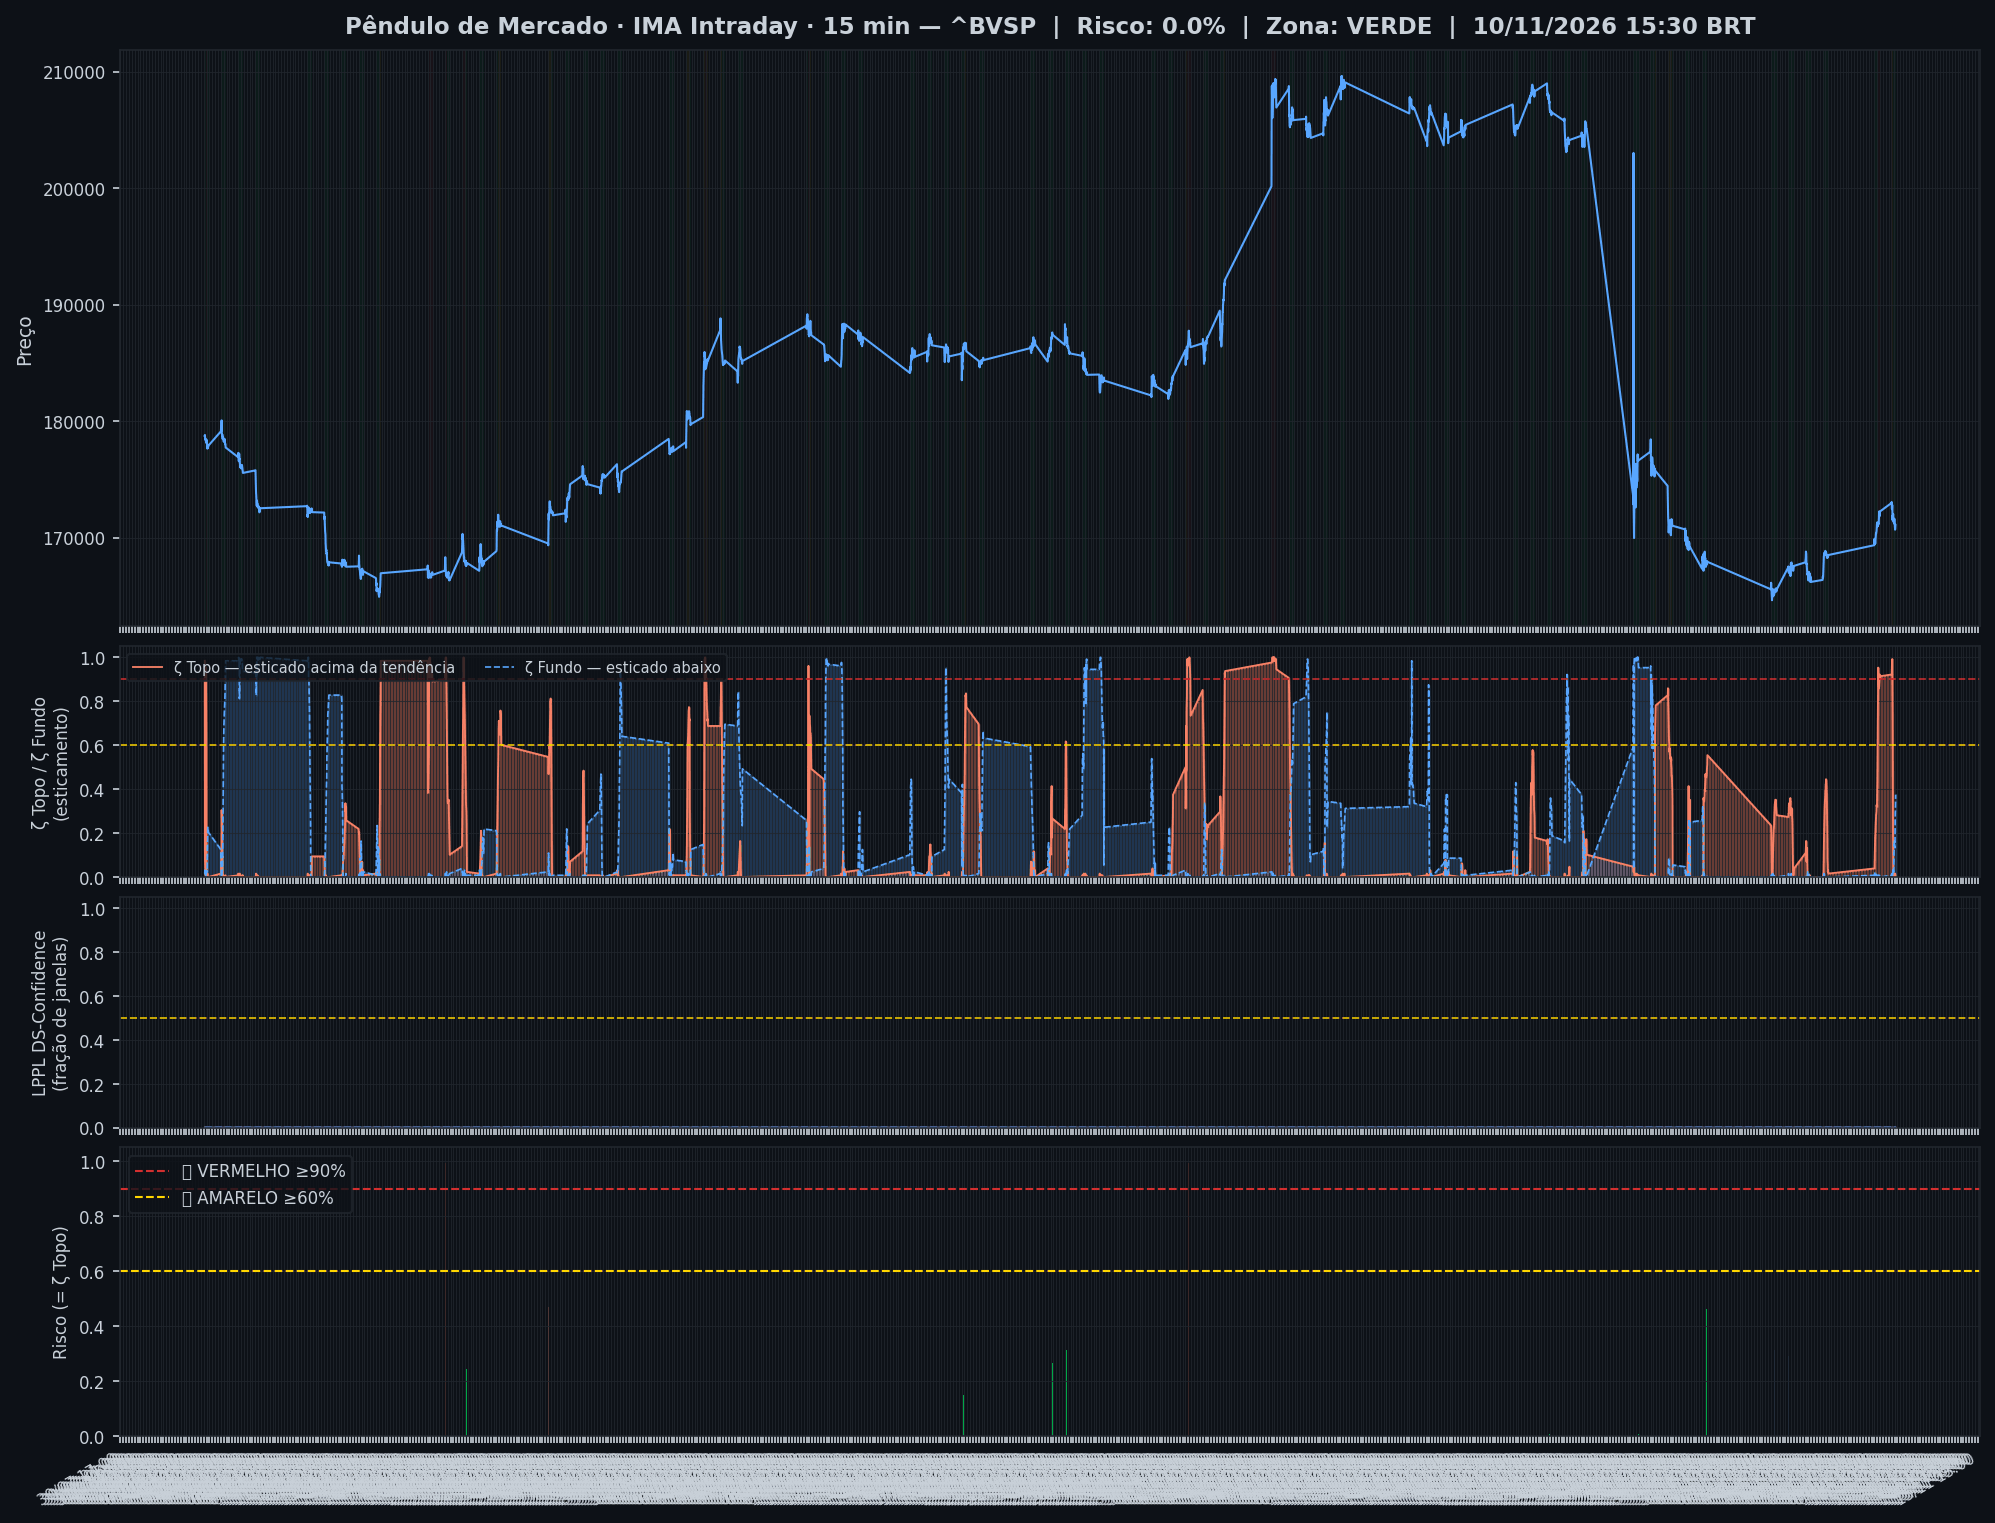
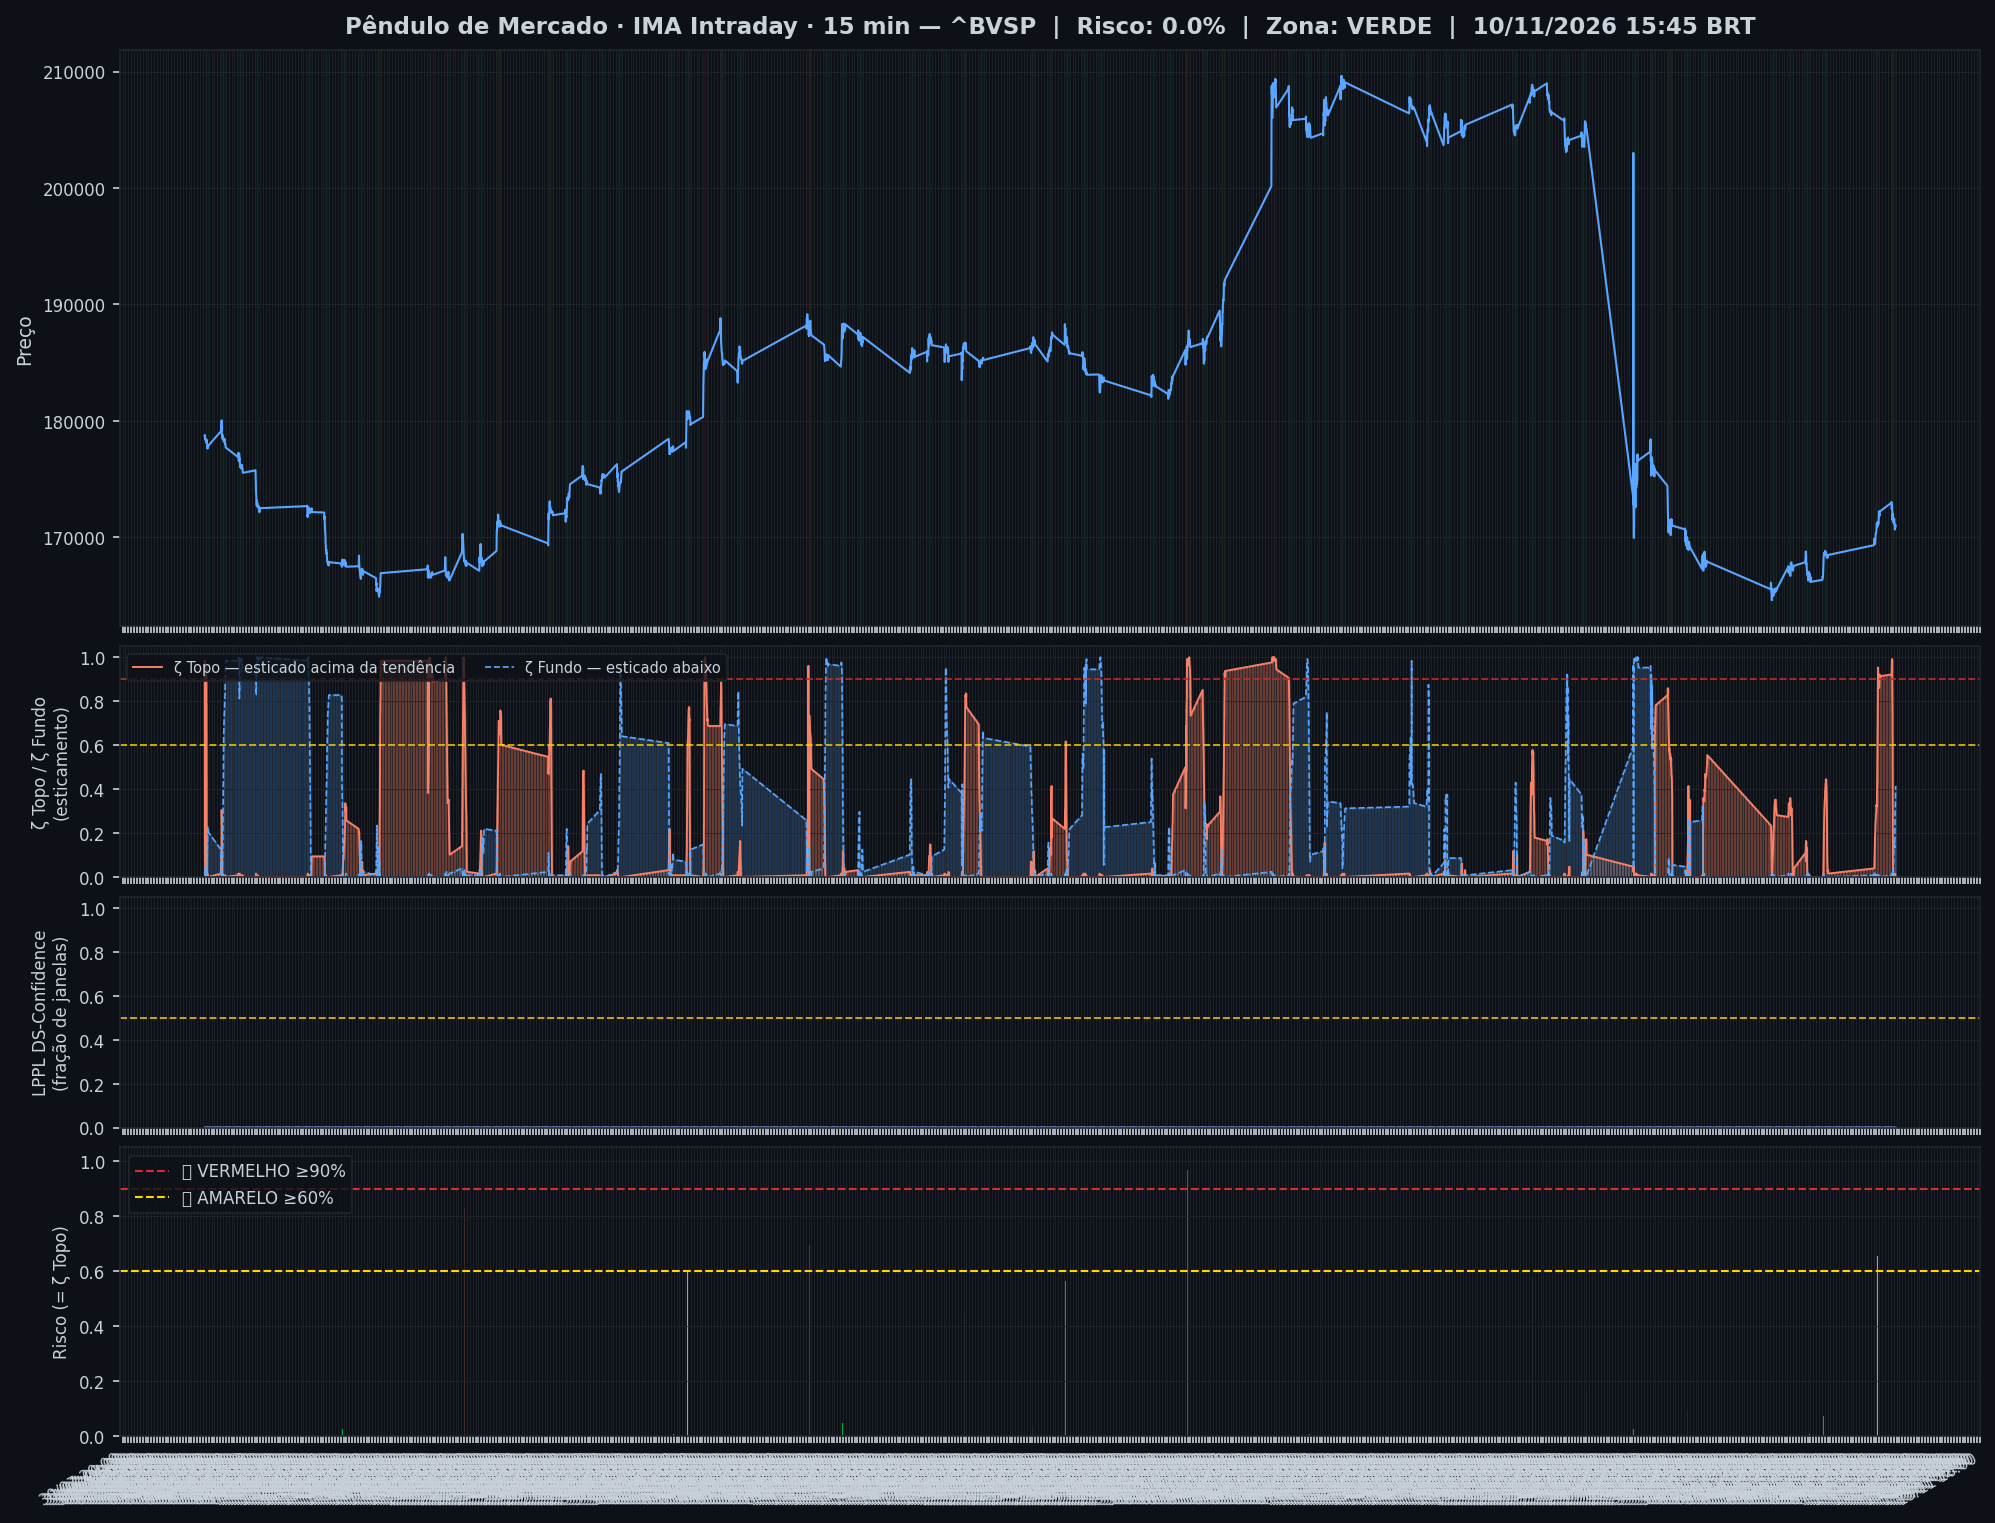
🤖 Auto: Sinal 10/11/2026 16:01

Changed region(s): [[0.0932, 0.432, 0.9634, 0.5863], [0.0311, 0.9258, 0.9945, 0.9875]]

diff --git a/content/intraday/2026-11-10.md b/content/intraday/2026-11-10.md
@@ -1,10 +1,10 @@
 ---
-title: "🟢 Intraday 10/11/2026 15:30 BRT — VERDE"
+title: "🟢 Intraday 10/11/2026 15:45 BRT — VERDE"
 date: 2026-11-10
 tags: [intraday]
 ---
 
-> [!success] Onde o mercado está agora (10/11 15:30, candles de 15 min): **🟢 Calmo**
+> [!success] Onde o mercado está agora (10/11 15:45, candles de 15 min): **🟢 Calmo**
 > `Pânico ◀──────●──────────────▶ Euforia`
 >
 > O Ibovespa está dentro da sua faixa normal, sem excesso para cima nem para baixo.
@@ -20,7 +20,7 @@ tags: [intraday]
 > | 📍 **Sinais** | hoje: nenhum sinal | [abrir](sinais-topo-fundo/) |
 > | 🧪 **Placar ao vivo** | 1 operação(ões), 0 com lucro, soma -0,8% | [abrir](operacoes/) |
 
-> [!success] IMA Intraday · 15 min (10/11 15:30): 🟢 **VERDE** — Risco 0% · ＝ +0 p.p. vs leitura anterior
+> [!success] IMA Intraday · 15 min (10/11 15:45): 🟢 **VERDE** — Risco 0% · ＝ +0 p.p. vs leitura anterior
 > `░░░░░░░░░░░░░░░░░░░░`
 > Preço na faixa normal em torno da tendência.
 
@@ -32,13 +32,13 @@ tags: [intraday]
 >
 > *Leitura educacional baseada em 26 anos de dados, não recomendação. [Como usar](../metodologia/crise#3-como-usar-na-prática).*
 
-| Indicador — IMA Intraday · 15 min (10/11 15:30) | Valor |
+| Indicador — IMA Intraday · 15 min (10/11 15:45) | Valor |
 |---|---|
 | 🔴 ζ Topo — preço esticado acima da tendência | **0%** |
-| 🔵 ζ Fundo — preço esticado abaixo da tendência | 38% |
+| 🔵 ζ Fundo — preço esticado abaixo da tendência | 41% |
 | 🫧 LPPL bolha — alta super-exponencial (risco de crash) | 0% |
 | 🫧 LPPL antibolha — queda super-exponencial (risco de repique) | 0% |
-| 📊 Ibovespa | 171.086 pts |
+| 📊 Ibovespa | 170.960 pts |
 
 ![Gráfico do sinal](../graficos/sinal_intraday.png)
 
@@ -46,6 +46,7 @@ tags: [intraday]
 
 | Data | Zona | Evento | Risco | ζ Topo | ζ Fundo | LPPL |
 |---|---|---|---|---|---|---|
+| 2026-11-10 15:45 | 🟢 VERDE |  | **0%** | 0% | 41% | 0% |
 | 2026-11-10 15:30 | 🟢 VERDE |  | **0%** | 0% | 38% | 0% |
 | 2026-11-10 15:15 | 🟢 VERDE |  | **0%** | 0% | 31% | 0% |
 | 2026-11-10 15:00 | 🟢 VERDE |  | **1%** | 1% | 29% | 0% |
@@ -75,7 +76,6 @@ tags: [intraday]
 | 2026-11-09 17:15 | 🔴 VERMELHO |  | 🔴 **92%** | 🔴 **92%** | 0% | 0% |
 | 2026-11-09 17:00 | 🔴 VERMELHO |  | 🟡 **89%** | 🟡 **89%** | 1% | 0% |
 | 2026-11-09 16:45 | 🔴 VERMELHO |  | 🟡 **88%** | 🟡 **88%** | 1% | 0% |
-| 2026-11-09 16:30 | 🔴 VERMELHO |  | 🟡 **87%** | 🟡 **87%** | 0% | 0% |
 
 <small>Destaques: 🟡 ≥ 60% · 🔴 ≥ 90% (Risco e ζ Topo) · 🔵 ≥ 60% · 🔪 ≥ 90% (ζ Fundo) · 🫧 ≥ 30% · 🫧🔴 ≥ 50% (LPPL)</small>
 
@@ -83,42 +83,42 @@ tags: [intraday]
 
 **4% dos ativos em tensão** (1🔴 2🟡) · **0 com ζ Fundo alto** — quanto mais ativos disparam juntos, mais confiável o sinal.
 
-> [!danger] Em destaque no multi-ativo
-> 🔴 **EMBRAER** ζ Topo 94%
+> [!warning] Em destaque no multi-ativo
+> 🟡 **EMBRAER** ζ Topo 90%
 
 | Zona | Ativo | Setor | ζ Topo | ζ Fundo |
 |---|---|---|---|---|
-| 🔴 | **EMBRAER** | Outros | 🔴 **93.8%** | 1.6% |
-| 🟡 | **AMBEV S/A** | Consumo | 54.7% | 5.5% |
-| 🟢 | **SABESP** | Saneamento | 0.0% | 51.6% |
-| 🟢 | **BRADESCO** | Financeiro | 0.0% | 51.6% |
-| 🟡 | **WEG** | Industrial | 50.0% | 0.0% |
-| 🟢 | **ITAUUNIBANCO** | Financeiro | 0.0% | 35.9% |
-| 🟢 | **ITAUSA** | Financeiro | 0.0% | 31.2% |
-| 🟢 | **ENEVA** | Energia | 0.0% | 28.1% |
-| 🟢 | **USD/BRL** | Câmbio | 28.1% | 8.6% |
-| 🟢 | **ULTRAPAR** | Outros | 0.0% | 25.8% |
+| 🔴 | **EMBRAER** | Outros | 🟡 **89.8%** | 0.8% |
+| 🟢 | **BRADESCO** | Financeiro | 0.0% | 54.7% |
+| 🟢 | **SABESP** | Saneamento | 0.0% | 53.1% |
+| 🟡 | **AMBEV S/A** | Consumo | 49.2% | 12.5% |
+| 🟡 | **WEG** | Industrial | 45.3% | 0.0% |
+| 🟢 | **ITAUUNIBANCO** | Financeiro | 0.0% | 34.4% |
+| 🟢 | **ITAUSA** | Financeiro | 0.0% | 32.0% |
 | 🟢 | **EQUATORIAL** | Energia | 0.0% | 23.4% |
-| 🟢 | **AXIA ENERGIA** | Energia | 0.0% | 21.1% |
-| 🟢 | **SUZANO S.A.** | Papel/Celulose | 0.0% | 19.5% |
-| 🟢 | **GERDAU** | Siderurgia | 16.4% | 0.8% |
+| 🟢 | **SUZANO S.A.** | Papel/Celulose | 0.0% | 23.4% |
+| 🟢 | **ENEVA** | Energia | 0.0% | 21.9% |
+| 🟢 | **ULTRAPAR** | Outros | 0.0% | 20.3% |
+| 🟢 | **USD/BRL** | Câmbio | 20.3% | 9.4% |
+| 🟢 | **AXIA ENERGIA** | Energia | 0.0% | 18.0% |
+| 🟢 | **PETROBRAS** | Petróleo | 17.2% | 0.0% |
+| 🟢 | **GERDAU** | Siderurgia | 17.2% | 0.8% |
 | 🟢 | **B3** | Financeiro | 0.0% | 14.8% |
-| 🟢 | **PETROBRAS** | Petróleo | 14.1% | 0.0% |
-| 🟢 | **PRIO** | Petróleo | 13.3% | 0.0% |
-| 🟢 | **REDE D OR** | Saúde | 0.0% | 12.5% |
-| 🟢 | **VIBRA** | Energia | 0.0% | 12.5% |
-| 🟢 | **BRASIL** | Financeiro | 0.0% | 7.8% |
-| 🟢 | **LOCALIZA** | Aluguel | 0.0% | 7.0% |
-| 🟢 | **VALE** | Mineração | 4.7% | 0.0% |
-| 🟢 | **BTGP BANCO** | Financeiro | 0.0% | 3.1% |
+| 🟢 | **PRIO** | Petróleo | 12.5% | 0.0% |
+| 🟢 | **REDE D OR** | Saúde | 0.8% | 10.2% |
+| 🟢 | **VIBRA** | Energia | 0.0% | 7.0% |
+| 🟢 | **BRASIL** | Financeiro | 0.0% | 4.7% |
+| 🟢 | **LOCALIZA** | Aluguel | 0.0% | 4.7% |
+| 🟢 | **VALE** | Mineração | 3.9% | 0.0% |
+| 🟢 | **PETROBRAS** | Petróleo | 1.6% | 0.0% |
 | 🟢 | **COPEL** | Energia | 0.0% | 1.6% |
-| 🟢 | **PETROBRAS** | Petróleo | 0.8% | 0.0% |
+| 🟢 | **BTGP BANCO** | Financeiro | 0.0% | 0.8% |
 
 <small>Destaques: 🟡 ≥ 60% · 🔴 ≥ 90% (Risco e ζ Topo) · 🔵 ≥ 60% · 🔪 ≥ 90% (ζ Fundo) · 🫧 ≥ 30% · 🫧🔴 ≥ 50% (LPPL)</small>
 
 ![Monitor multi-ativo](../graficos/multi_intraday.png)
 
-*Página atualizada em 10/11/2026 15:45 BRT (leitura da barra de 2026-11-10 15:30 BRT).*
+*Página atualizada em 10/11/2026 16:01 BRT (leitura da barra de 2026-11-10 15:45 BRT).*
 
 > [!warning] O que este indicador não faz
 > Medido em 5 anos de Ibovespa, o ζ **não antecipa** topos nem fundos: a capacidade de separar o que sobe do que cai ficou em 0,49–0,52, e 0,50 é moeda jogada ao ar. Ele descreve o estado de agora; não é aviso do que vem. As zonas verde/amarelo/vermelho continuam na página como descrição desse estado — **não as use como sinal de entrada ou saída**.

diff --git a/content/index.md b/content/index.md
@@ -6,9 +6,9 @@ tags: [home]
 
 **As ondas do mercado, explicadas.** Leitura do Ibovespa com estatística de 26 anos, baseada no trabalho de pesquisadores e traders reconhecidos e adaptada por Jarbas Daniel da Costa.
 
-*Última atualização: 10/11/2026 15:45 BRT · Intraday 15min*
+*Última atualização: 10/11/2026 16:01 BRT · Intraday 15min*
 
-> [!success] Onde o mercado está agora (10/11 15:30, candles de 15 min): **🟢 Calmo**
+> [!success] Onde o mercado está agora (10/11 15:45, candles de 15 min): **🟢 Calmo**
 > `Pânico ◀──────●──────────────▶ Euforia`
 >
 > O Ibovespa está dentro da sua faixa normal, sem excesso para cima nem para baixo.
@@ -44,18 +44,18 @@ tags: [home]
 > *Leitura educacional baseada em 26 anos de dados, não recomendação. [Como usar](metodologia/crise#3-como-usar-na-prática).*
 
 > [!info]- 🌊 Detalhes do Sinal IMA (indicadores e últimos 7 pregões)
-> > [!success] IMA Intraday · 15 min (10/11 15:30): 🟢 **VERDE** — Risco 0% · ＝ +0 p.p. vs leitura anterior
+> > [!success] IMA Intraday · 15 min (10/11 15:45): 🟢 **VERDE** — Risco 0% · ＝ +0 p.p. vs leitura anterior
 > > `░░░░░░░░░░░░░░░░░░░░`
 > > Preço na faixa normal em torno da tendência.
 >
 >
-> | Indicador — IMA Intraday · 15 min (10/11 15:30) | Valor |
+> | Indicador — IMA Intraday · 15 min (10/11 15:45) | Valor |
 > |---|---|
 > | 🔴 ζ Topo — preço esticado acima da tendência | **0%** |
-> | 🔵 ζ Fundo — preço esticado abaixo da tendência | 38% |
+> | 🔵 ζ Fundo — preço esticado abaixo da tendência | 41% |
 > | 🫧 LPPL bolha — alta super-exponencial (risco de crash) | 0% |
 > | 🫧 LPPL antibolha — queda super-exponencial (risco de repique) | 0% |
-> | 📊 Ibovespa | 171.086 pts |
+> | 📊 Ibovespa | 170.960 pts |
 >
 > **Multi-ativo:** 4% em tensão (1🔴 2🟡 de 25 ativos)
 >
@@ -63,7 +63,7 @@ tags: [home]
 >
 > | Data | Zona | Risco | ζ Topo | ζ Fundo | LPPL |
 > |---|---|---|---|---|---|
-> | [10/11/2026](intraday/2026-11-10) | 🟢 VERDE | **0%** | 0% | 38% | 0% |
+> | [10/11/2026](intraday/2026-11-10) | 🟢 VERDE | **0%** | 0% | 41% | 0% |
 > | [09/11/2026](intraday/2026-11-09) | 🔴 VERMELHO | 🔴 **91%** | 🔴 **91%** | 0% | 0% |
 >
 > <small>Destaques: 🟡 ≥ 60% · 🔴 ≥ 90% (Risco e ζ Topo) · 🔵 ≥ 60% · 🔪 ≥ 90% (ζ Fundo) · 🫧 ≥ 30% · 🫧🔴 ≥ 50% (LPPL)</small>

diff --git a/content/operacoes/entradas.md b/content/operacoes/entradas.md
@@ -31,7 +31,7 @@ description: "Compra depois de um sinal de fundo: Nadaraya no diário, semáforo
 > | Diário · Semáforo N3 após ζ Fundo | 07/07/26 a 172.021 | 10/08/26 a 172.021 | **+0,0%** | stop no preço de entrada |
 > | H4 · Semáforo N2 | 12/06/26 14h a 171.134 | 15/06/26 14h a 171.134 | **+0,0%** | stop no preço de entrada |
 >
-> <small>Atualizado 09/11 19:00 · checado no pregão às 15:45. Nota: ✅ passou no teste fora da amostra (walk-forward 2008–2026) · 🧪 em teste (H4, com aviso no Telegram) ou em observação (ζ, sem aviso) · 🧪 na tabela = operação do teste ao vivo.</small>
+> <small>Atualizado 09/11 19:00 · checado no pregão às 16:00. Nota: ✅ passou no teste fora da amostra (walk-forward 2008–2026) · 🧪 em teste (H4, com aviso no Telegram) ou em observação (ζ, sem aviso) · 🧪 na tabela = operação do teste ao vivo.</small>
 >
 > *Regras: depois de um sinal de fundo, o Diário entra quando o Nadaraya vira para cima; o Semanal e o H4 entram quando um fundo do semáforo fica fixo. Stop e saída de cada regra na [metodologia](metodologia/regras-de-operacao#entradas-do-método). Nenhuma regra de venda passou no teste. Os números do histórico têm viés de escolha (overfitting); o placar ao vivo é o que vale. Leitura educacional do método, não recomendação.*
 

diff --git a/content/historico.md b/content/historico.md
@@ -5,7 +5,7 @@ tags: [historico]
 
 # 📜 Histórico de leituras (v5)
 
-**2.267 leituras** desde 2026-07-03. Na página ficam os últimos 3 dias leitura por leitura e o resumo de cada dia anterior; o registro inteiro está no arquivo para baixar.
+**2.268 leituras** desde 2026-07-03. Na página ficam os últimos 3 dias leitura por leitura e o resumo de cada dia anterior; o registro inteiro está no arquivo para baixar.
 
 [**Baixar o histórico completo**](historico-completo.csv) (99 KB · abre no Excel e no LibreOffice)
 
@@ -16,6 +16,7 @@ tags: [historico]
 
 | Data | Modo | Zona | Risco | IMA | LPPL |
 |---|---|---|---|---|---|
+| 2026-11-10 15:45 | intraday | 🟢 VERDE | 0% | 0% | 0% |
 | 2026-11-10 15:30 | intraday | 🟢 VERDE | 0% | 0% | 0% |
 | 2026-11-10 15:15 | intraday | 🟢 VERDE | 0% | 0% | 0% |
 | 2026-11-10 15:00 | intraday | 🟢 VERDE | 1% | 1% | 0% |

diff --git a/content/operacoes/ranking.md b/content/operacoes/ranking.md
@@ -5,7 +5,7 @@ tags: [operacoes]
 description: "As regras de compra do site ordenadas pelo resultado, com treino, teste e placar ao vivo"
 ---
 
-*Atualizado 10/11/2026 15:45 · histórico simulado com as regras congeladas em 23/10/2026 + placar ao vivo.*
+*Atualizado 10/11/2026 16:01 · histórico simulado com as regras congeladas em 23/10/2026 + placar ao vivo.*
 
 As regras de compra do site, **da que mais rendeu para a que menos rendeu**. O resultado é por operação, no índice à vista, sem custos e sem juros compostos (a soma é só a soma das operações). **Treino** = entradas de 2001 a 2013 e **teste** = 2014 em diante: uma regra só é confiável se ganhou nos dois. O único resultado sem nenhum ajuste ao histórico é o **placar ao vivo**.
 

diff --git a/content/linha-do-tempo/index.md b/content/linha-do-tempo/index.md
@@ -5,7 +5,7 @@ description: "Todo sinal, ordem, stop e aviso do Pêndulo de Mercado, do mais re
 tags: [eventos]
 ---
 
-*Atualizada 10/11/2026 15:45 BRT · a cada 15 min no pregão e às 19h.*
+*Atualizada 10/11/2026 16:01 BRT · a cada 15 min no pregão e às 19h.*
 
 Tudo o que o sistema fez ou detectou, **do mais recente para o mais antigo**: sinais de topo e fundo, ordens de compra e de venda armadas, compras, vendas, stops, avisos de 🚨 preço perto do nível e mudanças do Sinal IMA. Os **últimos 7 dias** ficam abertos; o resto, por **ano → mês → dia**.
 
